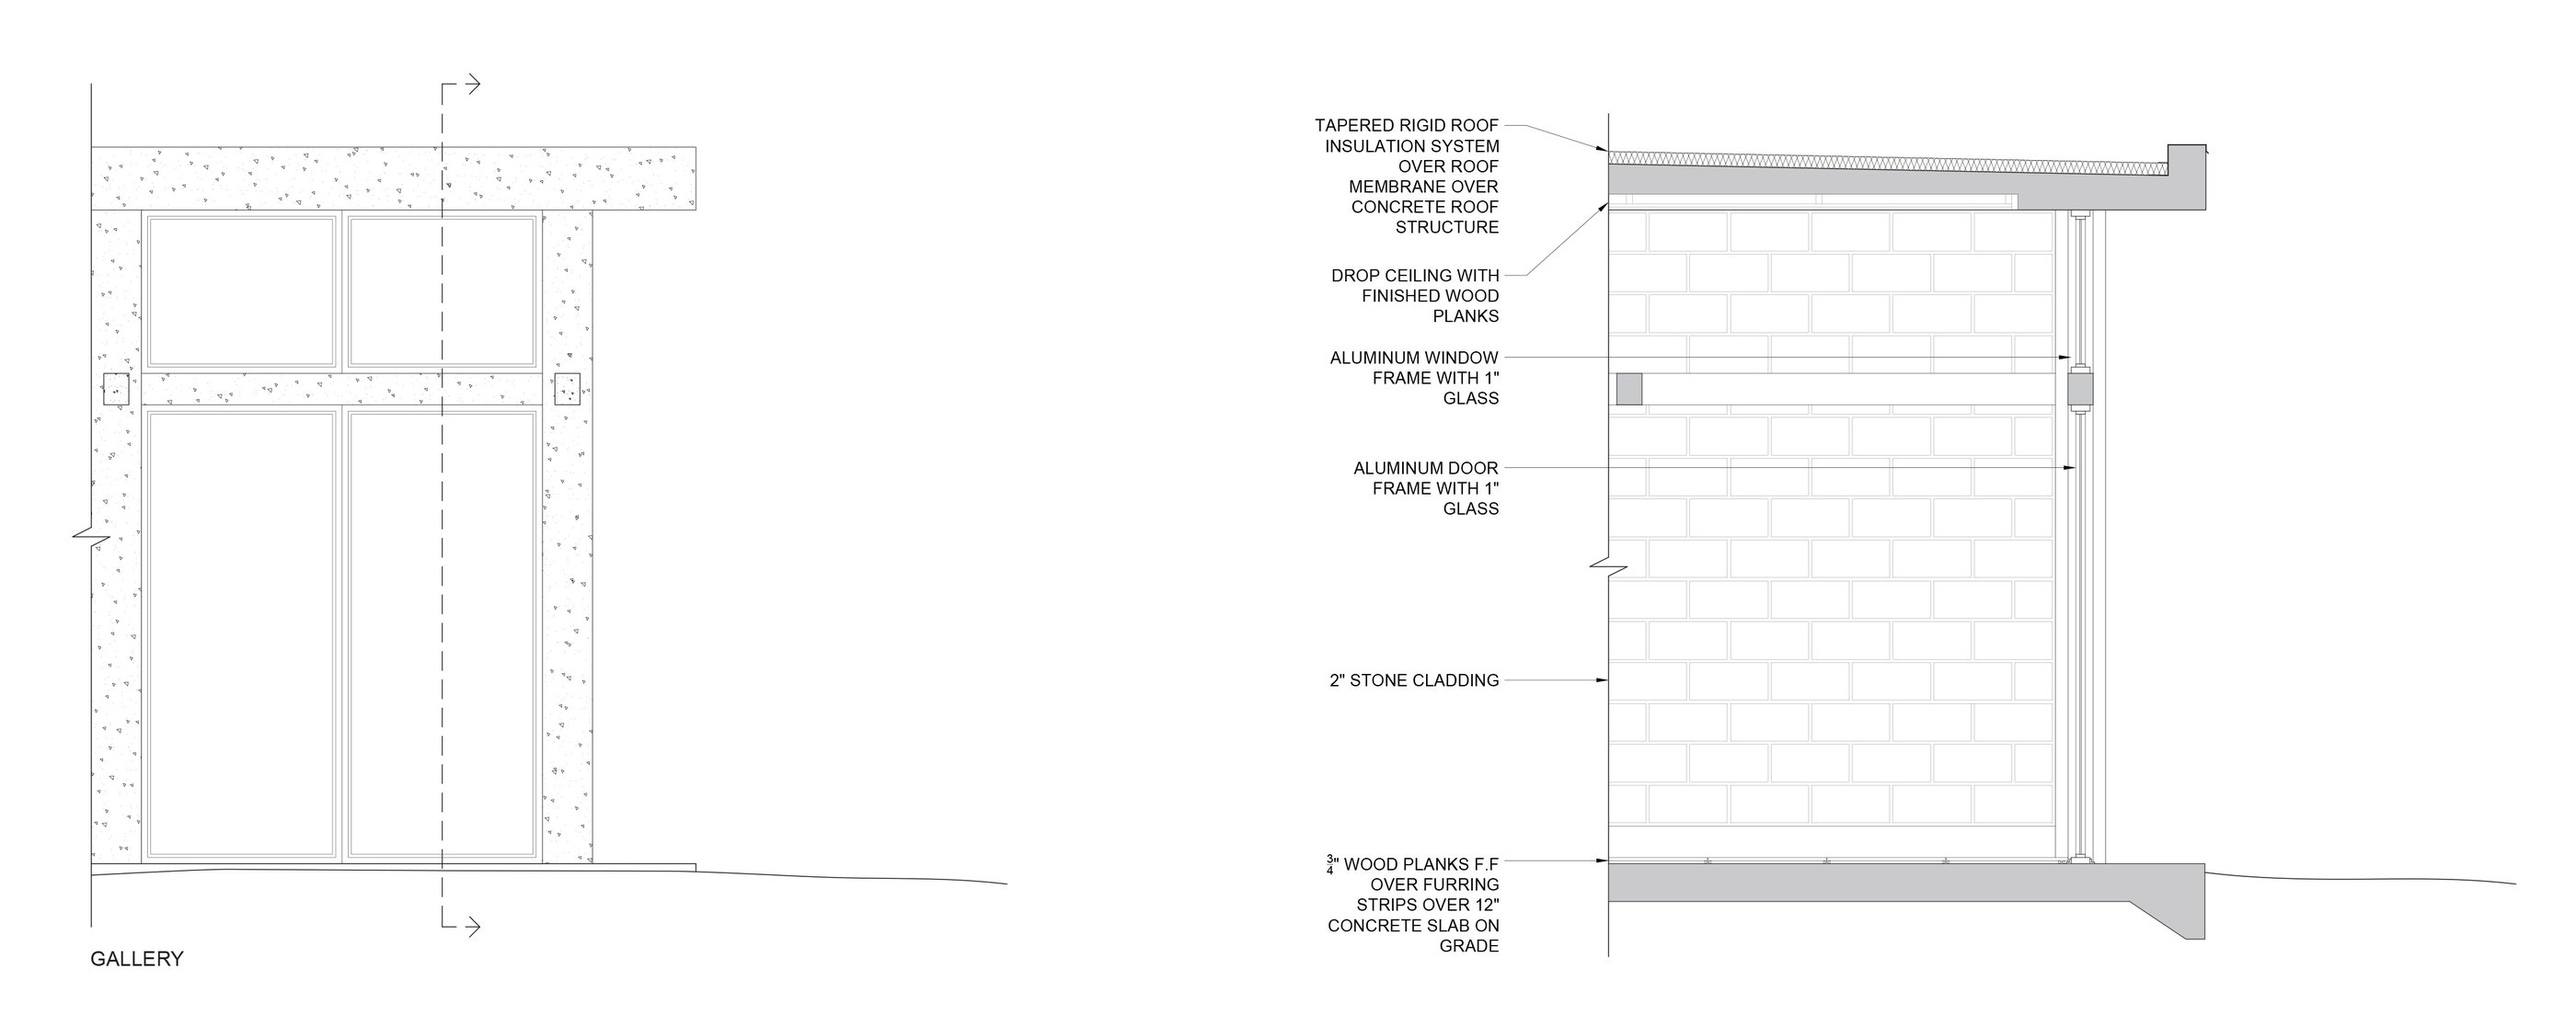
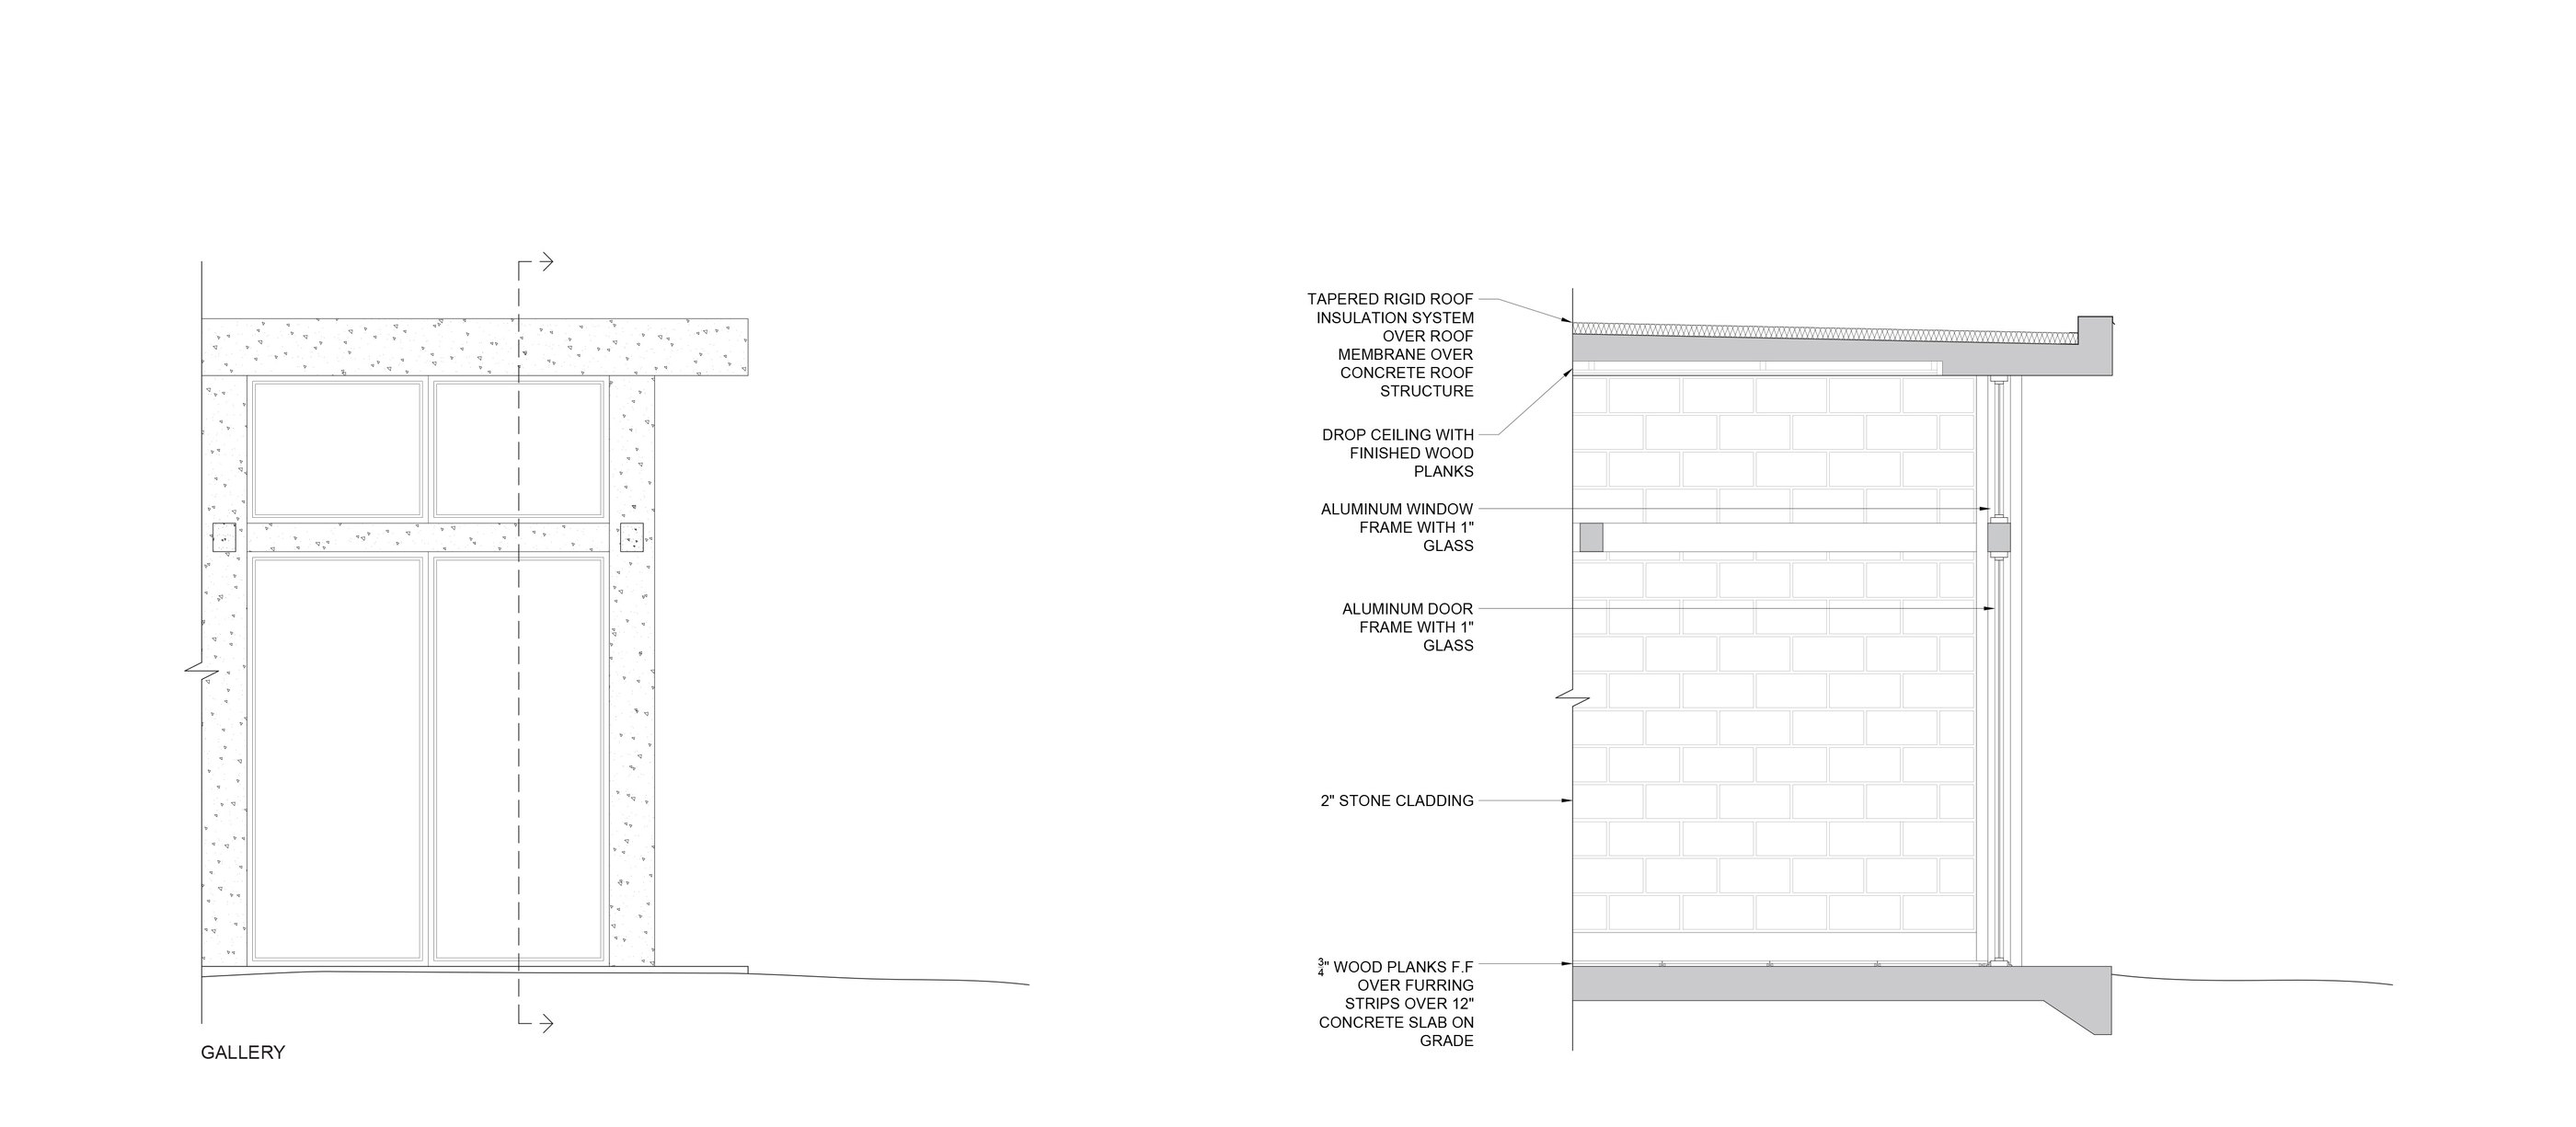
Deering Estate: remaining descriptions; wall sections and renders as click-through images.

diff --git a/index.html b/index.html
@@ -400,31 +400,18 @@
                     <p class="slide__desc">Solar shading and prevailing breeze</p>
                   </figcaption>
                 </figure>
-                <figure class="slide">
-                  <div class="slide__media" style="aspect-ratio: 2800 / 1116">
-                    <img class="slide__img" data-src="images/de/web/de-12-gallery-wall-section.jpg" alt="Deering Estate gallery wall section, with a part elevation beside it and the materials labelled" width="2800" height="1116" draggable="false">
+                <figure class="slide slide--cycle">
+                  <p class="cycle__hint">Click Me</p>
+                  <div class="slide__media cycle" style="aspect-ratio: 2800 / 1225">
+                    <img class="slide__img cycle__img is-current" data-src="images/de/web/de-12-gallery-wall-section.jpg" alt="Deering Estate gallery wall section, with a part elevation beside it and the materials labelled" width="2800" height="1225" draggable="false" data-title="Gallery Wall Section" data-desc="Concrete frame, stone, and glass">
+                    <img class="slide__img cycle__img" data-src="images/de/web/de-13-offices-wall-section.jpg" alt="Deering Estate offices wall section, with a part elevation beside it and the materials labelled" width="2800" height="1225" draggable="false" data-title="Offices Wall Section" data-desc="Structure, envelope, and cladding layers">
+                    <img class="slide__img cycle__img" data-src="images/de/web/de-14-lab-wall-section.jpg" alt="Deering Estate demonstration laboratory wall section, with a part elevation beside it and the materials labelled" width="2800" height="1225" draggable="false" data-title="Lab Wall Section" data-desc="Operable louvers under deep overhangs">
+                    <button type="button" class="cycle__zone cycle__zone--prev" aria-label="Previous photo"></button>
+                    <button type="button" class="cycle__zone cycle__zone--next" aria-label="Next photo"></button>
                   </div>
-                  <figcaption class="slide__text">
+                  <figcaption class="slide__text" aria-live="polite">
                     <p class="slide__title">Gallery Wall Section</p>
                     <p class="slide__desc">Concrete frame, stone, and glass</p>
-                  </figcaption>
-                </figure>
-                <figure class="slide">
-                  <div class="slide__media" style="aspect-ratio: 2800 / 1313">
-                    <img class="slide__img" data-src="images/de/web/de-13-offices-wall-section.jpg" alt="Deering Estate offices wall section, with a part elevation beside it and the materials labelled" width="2800" height="1313" draggable="false">
-                  </div>
-                  <figcaption class="slide__text">
-                    <p class="slide__title">Offices Wall Section</p>
-                    <p class="slide__desc">Structure, envelope, and cladding layers</p>
-                  </figcaption>
-                </figure>
-                <figure class="slide">
-                  <div class="slide__media" style="aspect-ratio: 2800 / 1081">
-                    <img class="slide__img" data-src="images/de/web/de-14-lab-wall-section.jpg" alt="Deering Estate demonstration laboratory wall section, with a part elevation beside it and the materials labelled" width="2800" height="1081" draggable="false">
-                  </div>
-                  <figcaption class="slide__text">
-                    <p class="slide__title">Lab Wall Section</p>
-                    <p class="slide__desc">[ADD: description of this image]</p>
                   </figcaption>
                 </figure>
                 <figure class="slide">
@@ -433,34 +420,21 @@
                   </div>
                   <figcaption class="slide__text">
                     <p class="slide__title">Transect</p>
-                    <p class="slide__desc">[ADD: description of this image]</p>
+                    <p class="slide__desc">Site layers from woods to water</p>
                   </figcaption>
                 </figure>
-                <figure class="slide">
-                  <div class="slide__media" style="aspect-ratio: 2400 / 1350">
-                    <img class="slide__img" data-src="images/de/web/de-08-gallery-render.jpg" alt="Deering Estate gallery render: visitors among display cases in a timber-framed room with glass walls" width="2400" height="1350" draggable="false">
+                <figure class="slide slide--cycle">
+                  <p class="cycle__hint">Click Me</p>
+                  <div class="slide__media cycle" style="aspect-ratio: 2400 / 1350">
+                    <img class="slide__img cycle__img is-current" data-src="images/de/web/de-08-gallery-render.jpg" alt="Deering Estate gallery render: visitors among display cases in a timber-framed room with glass walls" width="2400" height="1350" draggable="false" data-title="Gallery Render" data-desc="Gallery looking toward historic estate">
+                    <img class="slide__img cycle__img" data-src="images/de/web/de-10-exterior-render.jpg" alt="Deering Estate exterior render: low timber buildings around a gravel court shaded by large trees" width="2400" height="1350" draggable="false" data-title="Exterior Render" data-desc="Shaded courtyard between campus buildings">
+                    <img class="slide__img cycle__img" data-src="images/de/web/de-11-exterior-render2.jpg" alt="Deering Estate second exterior render: students crossing the court between the buildings, seen from a porch" width="2400" height="1350" draggable="false" data-title="Exterior Render" data-desc="Timber buildings around shaded lawns">
+                    <button type="button" class="cycle__zone cycle__zone--prev" aria-label="Previous photo"></button>
+                    <button type="button" class="cycle__zone cycle__zone--next" aria-label="Next photo"></button>
                   </div>
-                  <figcaption class="slide__text">
+                  <figcaption class="slide__text" aria-live="polite">
                     <p class="slide__title">Gallery Render</p>
-                    <p class="slide__desc">[ADD: description of this image]</p>
-                  </figcaption>
-                </figure>
-                <figure class="slide">
-                  <div class="slide__media" style="aspect-ratio: 1800 / 1012">
-                    <img class="slide__img" data-src="images/de/web/de-10-exterior-render.jpg" alt="Deering Estate exterior render: low timber buildings around a gravel court shaded by large trees" width="1800" height="1012" draggable="false">
-                  </div>
-                  <figcaption class="slide__text">
-                    <p class="slide__title">Exterior Render</p>
-                    <p class="slide__desc">[ADD: description of this image]</p>
-                  </figcaption>
-                </figure>
-                <figure class="slide">
-                  <div class="slide__media" style="aspect-ratio: 1800 / 1012">
-                    <img class="slide__img" data-src="images/de/web/de-11-exterior-render2.jpg" alt="Deering Estate second exterior render: students crossing the court between the buildings, seen from a porch" width="1800" height="1012" draggable="false">
-                  </div>
-                  <figcaption class="slide__text">
-                    <p class="slide__title">Exterior Render 2</p>
-                    <p class="slide__desc">[ADD: description of this image]</p>
+                    <p class="slide__desc">Gallery looking toward historic estate</p>
                   </figcaption>
                 </figure>
               </div>

diff --git a/SPEC.md b/SPEC.md
@@ -137,8 +137,8 @@ Never invent facts, dimensions, dates or names that Henri has not given. Ask him
 ## Images
 - Henri's files go in a folder called images. Project icons go in images/icons as SVG, one per project page (six in total, one shared icon for Built Work).
 - Deering Estate: Henri's original files are in images/de. The site shows web-sized JPEG copies from images/de/web (longest side 2800px, each under 500 KB). Its icon on the home page is a web-sized copy of the section perspective render (now de-07-p-section.jpg), saved as images/icons/deering.jpg. The originals are not used by any page.
-- Deering Estate images, in order: (1) Section Perspective (de-07-p-section, which is also the icon); (2) Existing Site Plan (de-09-existing-sp); (3) Floor Plan (de-15); (4) one click-through image holding Spaces Diagram (de-16), Program Diagram (de-18) and Circulation Diagram (de-17), in that order, lined up so the drawing sits in exactly the same place in all three; (5) South Elevation above East Elevation (de-02-gallery-elevation, titled "East Elevation"); (6) the two sections, de-03-long-section titled "Longitudinal Section" above de-04-long-section-2 titled "Cross Section"; (7) Passive Diagram; (8) Gallery Wall Section, Offices Wall Section, Lab Wall Section (de-12, 13, 14); (9) Transect; (10) the renders: Gallery Render (de-08), Exterior Render (de-10), Exterior Render 2 (de-11). Other titles are taken from Henri's file names.
-- Deering Estate descriptions, in Henri's words: Section Perspective: "Exposed timber structure, deep overhangs, operable louvers"; Existing Site Plan: "Coastal grid, buildings, and shoreline"; Floor Plan: "Proposed buildings among existing estate"; South Elevation: "Existing estate meets new hall"; East Elevation: "Transparent facade among mature trees"; Longitudinal Section: "Courtyard framed by new buildings"; Cross Section: "Campus sequence along sloped site"; Passive Diagram: "Solar shading and prevailing breeze"; Gallery Wall Section: "Concrete frame, stone, and glass"; Offices Wall Section: "Structure, envelope, and cladding layers". The Spaces, Program and Circulation diagrams have a title only, with no description text box. [ADD: a description for Lab Wall Section, Transect and the three renders, from Henri]
+- Deering Estate images, in order: (1) Section Perspective (de-07-p-section, which is also the icon); (2) Existing Site Plan (de-09-existing-sp); (3) Floor Plan (de-15); (4) one click-through image holding Spaces Diagram (de-16), Program Diagram (de-18) and Circulation Diagram (de-17), in that order, lined up so the drawing sits in exactly the same place in all three; (5) South Elevation above East Elevation (de-02-gallery-elevation, titled "East Elevation"); (6) the two sections, de-03-long-section titled "Longitudinal Section" above de-04-long-section-2 titled "Cross Section"; (7) Passive Diagram; (8) one click-through image holding Gallery Wall Section, Offices Wall Section and Lab Wall Section (de-12, 13, 14), set on one shared frame with their floor slabs and section cut lines in the same place (they are different buildings, so the rest lines up only roughly); (9) Transect; (10) one click-through image holding the three renders: Gallery Render (de-08), then de-10 and de-11, both titled "Exterior Render". Other titles are taken from Henri's file names.
+- Deering Estate descriptions, in Henri's words: Section Perspective: "Exposed timber structure, deep overhangs, operable louvers"; Existing Site Plan: "Coastal grid, buildings, and shoreline"; Floor Plan: "Proposed buildings among existing estate"; South Elevation: "Existing estate meets new hall"; East Elevation: "Transparent facade among mature trees"; Longitudinal Section: "Courtyard framed by new buildings"; Cross Section: "Campus sequence along sloped site"; Passive Diagram: "Solar shading and prevailing breeze"; Gallery Wall Section: "Concrete frame, stone, and glass"; Offices Wall Section: "Structure, envelope, and cladding layers". The Spaces, Program and Circulation diagrams have a title only, with no description text box. Lab Wall Section: "Operable louvers under deep overhangs"; Transect: "Site layers from woods to water"; Gallery Render: "Gallery looking toward historic estate"; Exterior Render (de-10): "Shaded courtyard between campus buildings"; Exterior Render (de-11): "Timber buildings around shaded lawns".
 - R+EC: Henri's original PNG files are in images/rec. The site shows web-sized JPEG copies from images/rec/web (longest side 2800px, each under 500 KB). The originals are not used by any page.
 - Where there is no image yet, use a plain grey box labelled [ADD: image of ...].
 - Every image has alt text describing what it shows.
